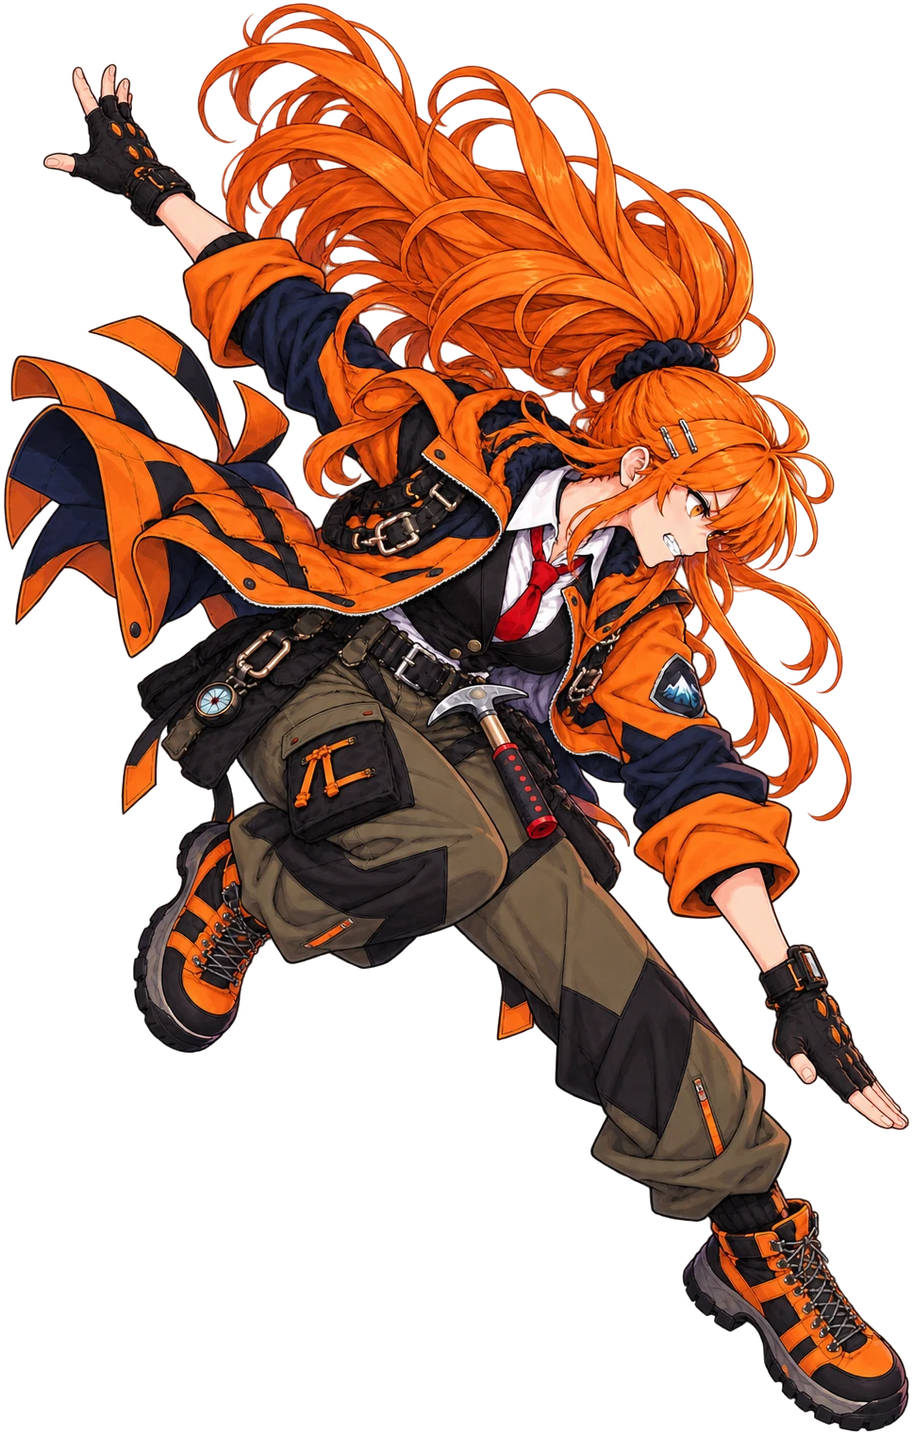
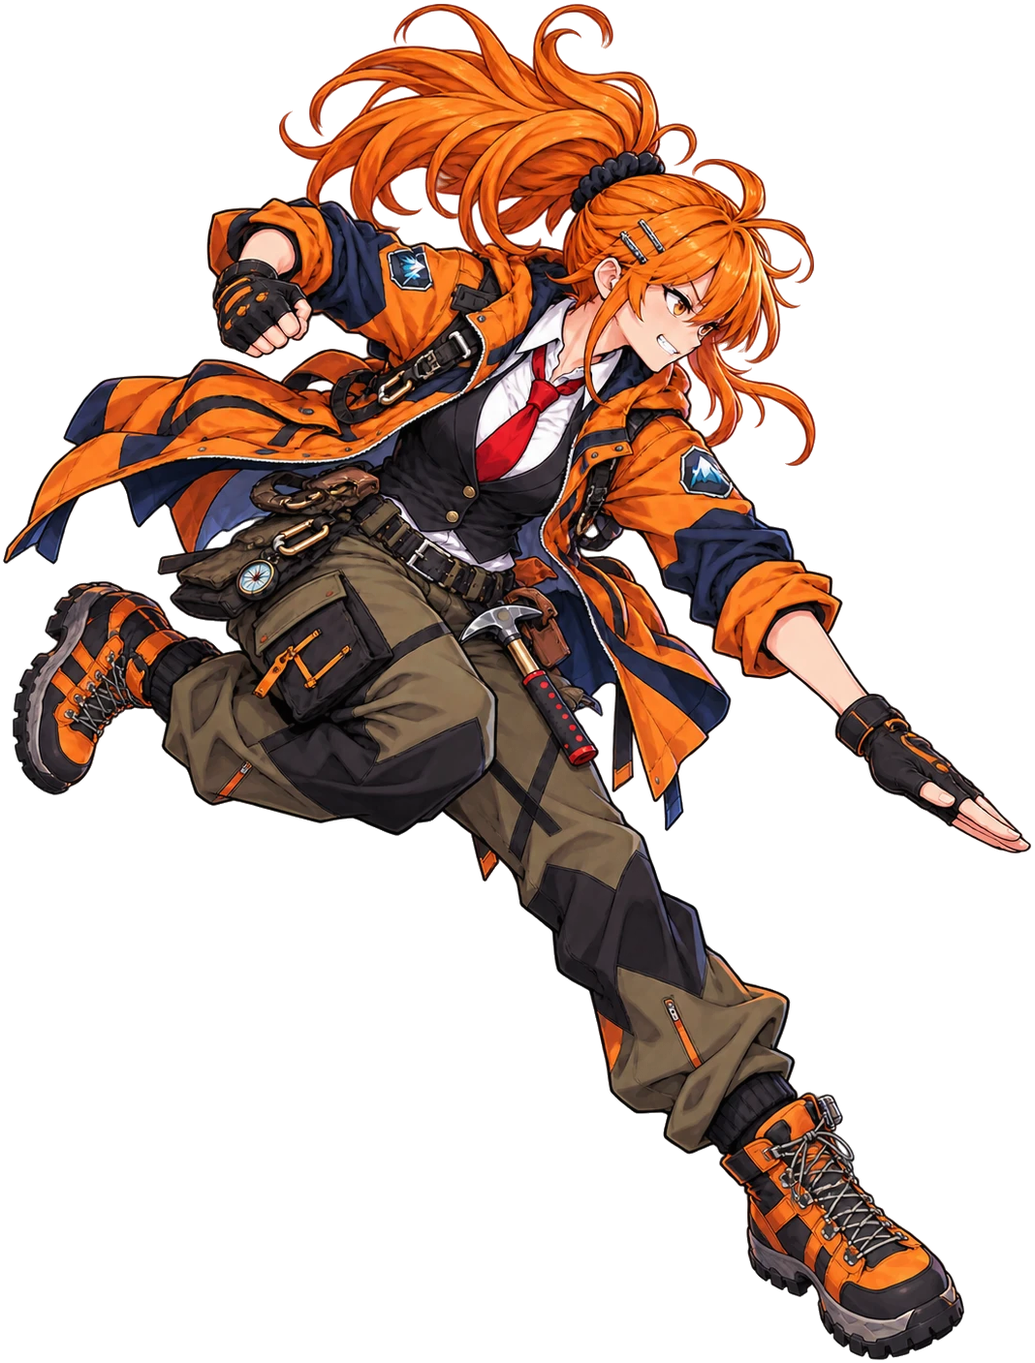
Globe jH/jK, Seed jH 새 그림 + 판정 맞춤
- globe_jh: 발 기준점이 앞발에 잡혀 몸이 뒤로 밀리던 것 고정 앵커로 수정
- REDO 목록에서 다 그린 3장 제거, PROMPTS.md 다시 생성

Claude-Session: https://claude.ai/code/session_01DkxNRghxDBAgHYk82cYTSd

diff --git a/tools/make_prompts.py b/tools/make_prompts.py
@@ -102,12 +102,9 @@ SPECIALS = {
 # 다시 뽑을 그림: (파일, 설명, Pose 문장). 새 그림을 넣으면 여기서 지운다
 REDO = [
     # 판정보다 그림이 짧아서 판정이 허공에 떠 있는 것 (실측: 그림 끝 / 판정 끝)
-    ('globe_jh', '공중 HS (24 / 73)', 'in mid-air, big diagonal downward swing of one hand in a karate chop reaching FAR forward and down toward the lower right'),
-    ('seed_jh', '공중 HS (24 / 73)', 'in mid-air, big diagonal downward palm strike reaching FAR forward and down toward the lower right'),
     ('common_jh', '공중 HS (35 / 73)', 'in mid-air, big diagonal downward swing of the mechanical keyboard reaching FAR forward and down toward the lower right'),
     ('seed_2p', '앉아 P (37 / 73)', 'crouching low, quick jab with one fist at waist height, the punching arm FULLY extended straight toward the right'),
     ('seed_2k', '앉아 K (37 / 73)', 'crouching low, sweeping kick with the front leg FULLY extended straight forward along the floor toward the right'),
-    ('globe_jk', '공중 K (52 / 73)', 'in mid-air, flying side kick with one leg FULLY extended straight forward toward the right'),
 ]
 
 # 무기 공격 (길티기어처럼 S = 가벼운 무기 공격, HS = 크고 느린 무기 공격). 5S → <id>_slash, 5H → <id>_heavy

diff --git a/docs/PROMPTS.md b/docs/PROMPTS.md
@@ -21,16 +21,6 @@
 
 > 괄호 = 지금 그림 끝 / 판정 끝 (발 기준 px). REACH 문장이 판정 길이에 맞춰 들어가 있다
 
-⬜ **공중 HS (24 / 73)** → `globe_jh`
-```
-Same character as the attached image: same face, hair, outfit, colors and body proportions. ONLY ONE PERSON in the image: no opponent, no second character, no other people, no enemy silhouette. Full body, facing right (three-quarter side view), whole body visible from head to feet, transparent background (real alpha channel, not a checkerboard pattern), no effects, no glowing particles, no energy, no motion lines, no ground shadow, no text. Empty-handed, geologist hammer on the belt. Pose: in mid-air, big diagonal downward swing of one hand in a karate chop reaching FAR forward and down toward the lower right. REACH (must match the game's hit area): the very tip of the attacking hand, foot or weapon ends about 50% of the character's full standing height in front of the body's center line, diagonally down-forward in mid-air. The attacking limb is fully extended and clearly separated from the body. Leave empty space around it, nothing cropped. Age-appropriate high school student, fully clothed in a modest school uniform or club outfit, long sleeves or jacket, knee-length or longer skirt/pants, no exposed skin other than face and hands, non-sexualized, natural body proportions, wholesome. Japanese anime fighting game art style, cel-shaded with hard-edged shadows, thick black ink outlines, high contrast, saturated colors, dramatic rim lighting, gritty rock-and-roll / heavy metal aesthetic, color accents of crimson red, black and white.
-```
-
-⬜ **공중 HS (24 / 73)** → `seed_jh`
-```
-Same character as the attached image: same face, hair, outfit, colors and body proportions. ONLY ONE PERSON in the image: no opponent, no second character, no other people, no enemy silhouette. Full body, facing right (three-quarter side view), whole body visible from head to feet, transparent background (real alpha channel, not a checkerboard pattern), no effects, no glowing particles, no energy, no motion lines, no ground shadow, no text. Empty-handed, magnifying glass pendant. Pose: in mid-air, big diagonal downward palm strike reaching FAR forward and down toward the lower right. Skirt kept modest, opaque tights. REACH (must match the game's hit area): the very tip of the attacking hand, foot or weapon ends about 50% of the character's full standing height in front of the body's center line, diagonally down-forward in mid-air. The attacking limb is fully extended and clearly separated from the body. Leave empty space around it, nothing cropped. Age-appropriate high school student, fully clothed in a modest school uniform or club outfit, long sleeves or jacket, knee-length or longer skirt/pants, no exposed skin other than face and hands, non-sexualized, natural body proportions, wholesome. Japanese anime fighting game art style, cel-shaded with hard-edged shadows, thick black ink outlines, high contrast, saturated colors, dramatic rim lighting, gritty rock-and-roll / heavy metal aesthetic, color accents of crimson red, black and white.
-```
-
 ⬜ **공중 HS (35 / 73)** → `common_jh`
 ```
 Same character as the attached image: same face, hair, outfit, colors and body proportions. ONLY ONE PERSON in the image: no opponent, no second character, no other people, no enemy silhouette. Full body, facing right (three-quarter side view), whole body visible from head to feet, transparent background (real alpha channel, not a checkerboard pattern), no effects, no glowing particles, no energy, no motion lines, no ground shadow, no text. Holding his mechanical keyboard. Pose: in mid-air, big diagonal downward swing of the mechanical keyboard reaching FAR forward and down toward the lower right. REACH (must match the game's hit area): the very tip of the attacking hand, foot or weapon ends about 50% of the character's full standing height in front of the body's center line, diagonally down-forward in mid-air. The attacking limb is fully extended and clearly separated from the body. Leave empty space around it, nothing cropped. Age-appropriate high school student, fully clothed in a modest school uniform or club outfit, long sleeves or jacket, knee-length or longer skirt/pants, no exposed skin other than face and hands, non-sexualized, natural body proportions, wholesome. Japanese anime fighting game art style, cel-shaded with hard-edged shadows, thick black ink outlines, high contrast, saturated colors, dramatic rim lighting, gritty rock-and-roll / heavy metal aesthetic, color accents of crimson red, black and white.
@@ -44,11 +34,6 @@ Same character as the attached image: same face, hair, outfit, colors and body p
 ⬜ **앉아 K (37 / 73)** → `seed_2k`
 ```
 Same character as the attached image: same face, hair, outfit, colors and body proportions. ONLY ONE PERSON in the image: no opponent, no second character, no other people, no enemy silhouette. Full body, facing right (three-quarter side view), whole body visible from head to feet, transparent background (real alpha channel, not a checkerboard pattern), no effects, no glowing particles, no energy, no motion lines, no ground shadow, no text. Empty-handed, magnifying glass pendant. Pose: crouching low, sweeping kick with the front leg FULLY extended straight forward along the floor toward the right. Skirt kept modest, opaque tights. REACH (must match the game's hit area): the very tip of the attacking hand, foot or weapon ends about 36% of the character's full standing height in front of the body's center line, at ankle height along the floor. The attacking limb is fully extended and clearly separated from the body. Leave empty space around it, nothing cropped. Age-appropriate high school student, fully clothed in a modest school uniform or club outfit, long sleeves or jacket, knee-length or longer skirt/pants, no exposed skin other than face and hands, non-sexualized, natural body proportions, wholesome. Japanese anime fighting game art style, cel-shaded with hard-edged shadows, thick black ink outlines, high contrast, saturated colors, dramatic rim lighting, gritty rock-and-roll / heavy metal aesthetic, color accents of crimson red, black and white.
-```
-
-⬜ **공중 K (52 / 73)** → `globe_jk`
-```
-Same character as the attached image: same face, hair, outfit, colors and body proportions. ONLY ONE PERSON in the image: no opponent, no second character, no other people, no enemy silhouette. Full body, facing right (three-quarter side view), whole body visible from head to feet, transparent background (real alpha channel, not a checkerboard pattern), no effects, no glowing particles, no energy, no motion lines, no ground shadow, no text. Empty-handed, geologist hammer on the belt. Pose: in mid-air, flying side kick with one leg FULLY extended straight forward toward the right. REACH (must match the game's hit area): the very tip of the attacking hand, foot or weapon ends about 59% of the character's full standing height in front of the body's center line, at hip height in mid-air. The attacking limb is fully extended and clearly separated from the body. Leave empty space around it, nothing cropped. Age-appropriate high school student, fully clothed in a modest school uniform or club outfit, long sleeves or jacket, knee-length or longer skirt/pants, no exposed skin other than face and hands, non-sexualized, natural body proportions, wholesome. Japanese anime fighting game art style, cel-shaded with hard-edged shadows, thick black ink outlines, high contrast, saturated colors, dramatic rim lighting, gritty rock-and-roll / heavy metal aesthetic, color accents of crimson red, black and white.
 ```
 
 ## 0-0. 글자 그림 (한 장씩, 첨부 없이)
